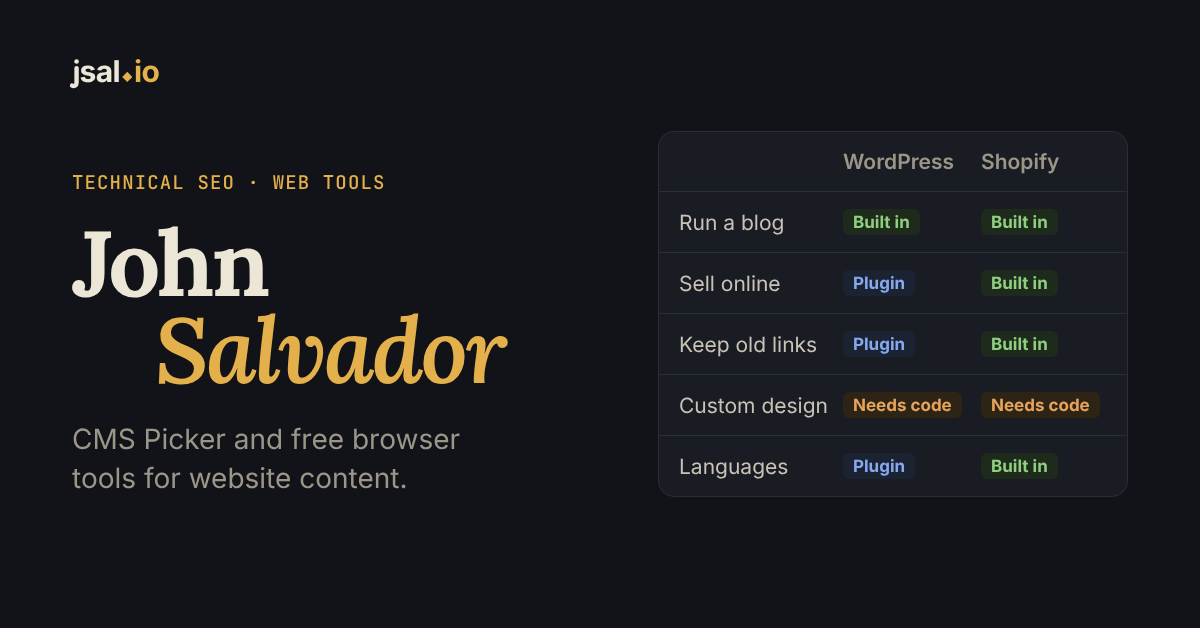
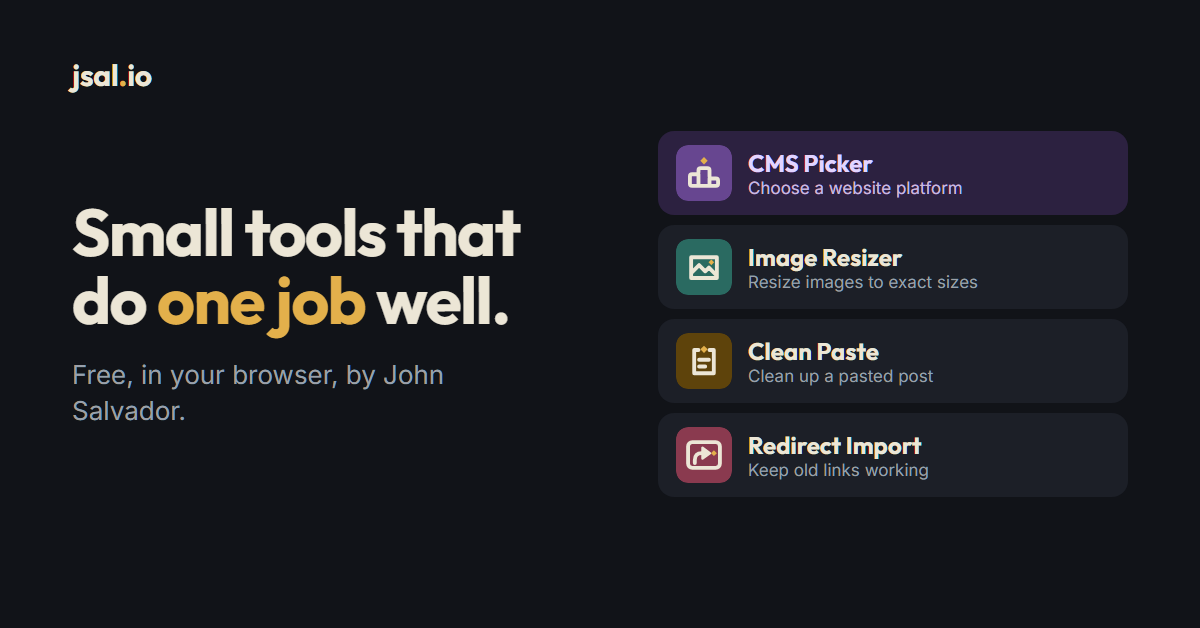
Site: share images in the new look, and the redesign's changelog lines
The link previews for the home page and Off the clock still had the old
look (Lora, the old home picture), and Off the clock's had lost its art. A
new template draws them in the pages' own look: the title in Outfit with its
gold words, and a picture from the page (the four tools, her render on the
dark stage). The jsal.ui page gets its own, with the dashboard's Home window.
Three changelog lines say what changed for visitors.

diff --git a/.github/build/og/og-play.html b/.github/build/og/og-play.html
@@ -1,0 +1,61 @@
+<!doctype html>
+<!-- Link-preview images for the home page, Off the clock and the jsal.ui page (1200 × 628), in those pages' own look:
+     the page's title in Outfit with its gold words, and a picture from the page. Rendered to PNG by make-og.ps1:
+     og-play.html?p=home | play | jsal-ui  → site/og/<p>.png -->
+<html lang="en">
+<head>
+<meta charset="utf-8">
+<link rel="stylesheet" href="https://fonts.googleapis.com/css2?family=Inter:wght@400;600&family=Outfit:wght@600;700;800&display=block">
+<style>
+* { box-sizing: border-box; margin: 0; }
+html, body { width: 1200px; height: 628px; overflow: hidden; }
+body { position: relative; display: grid; grid-template-columns: 1fr 470px; align-items: center; gap: 56px; padding: 64px 72px; background: #111318; color: #ece6d6; font-family: Inter, "Segoe UI", sans-serif; }
+.mark { position: absolute; top: 56px; left: 72px; font: 700 30px Outfit, sans-serif; letter-spacing: -0.01em; }
+.mark i { color: #e3b04b; font-style: normal; }
+h1 { font: 700 66px/1.02 Outfit, sans-serif; letter-spacing: -0.025em; text-wrap: balance; }
+h1.small { font-size: 56px; }
+h1 em { font-style: normal; color: #e3b04b; }
+p { margin-top: 24px; max-width: 18em; color: #9aa0aa; font-size: 26px; line-height: 1.4; }
+/* home: the four tools as the page lists them, the CMS Picker chosen */
+.list { display: grid; gap: 10px; }
+.row { display: grid; grid-template-columns: 56px 1fr; gap: 16px; align-items: center; padding: 14px 18px; border-radius: 16px; background: #1c1f27; }
+.row img { width: 56px; height: 56px; border-radius: 12px; }
+.row b { display: block; font: 700 24px Outfit, sans-serif; }
+.row small { color: #9aa0aa; font-size: 17px; }
+.row.on { background: #2c2140; color: #e3d4ff; }
+.row.on small { color: inherit; opacity: 0.85; }
+/* Off the clock: the character on the game's dark stage, as the sheet shows her */
+.hero { position: relative; overflow: hidden; display: grid; align-content: end; justify-items: center; height: 500px; padding: 20px; border-radius: 22px; background: radial-gradient(60% 45% at 50% 42%, #3a3f4c, #1c1f27 70%, #14171c); }
+.hero img { position: absolute; left: -50%; top: -32%; width: 200%; max-width: none; }
+.credit { position: absolute; right: 72px; bottom: 30px; color: #9aa0aa; font-size: 14px; }
+/* the jsal.ui page: the dashboard's Home window */
+.shot { height: 500px; overflow: hidden; border: 1px solid #3d424e; border-radius: 18px; background: #191c23; box-shadow: 0 24px 60px rgb(0 0 0 / 0.35); }
+.shot img { display: block; width: 760px; margin: -6px 0 0 -8px; }
+</style>
+</head>
+<body>
+<div class="mark">jsal<i>.</i>io</div>
+<div><h1 id="title"></h1><p id="sub"></p></div>
+<div id="visual"></div>
+<script>
+const p = new URLSearchParams(location.search).get('p') || 'home';
+const img = (path) => `../../../site/img/${path}`;
+const TOOLS = [['cms-picker', 'CMS Picker', 'Choose a website platform'], ['image-resizer', 'Image Resizer', 'Resize images to exact sizes'], ['clean-paste', 'Clean Paste', 'Clean up a pasted post'], ['redirect-import', 'Redirect Import', 'Keep old links working']];
+const pages = {
+  home: { title: 'Small tools that do <em>one job</em> well.', sub: 'Free, in your browser, by John Salvador.',
+    visual: `<div class="list">${TOOLS.map(([icon, name, job], i) => `<div class="row${i ? '' : ' on'}"><img src="${img(`icons/${icon}.svg`)}" alt=""><span><b>${name}</b><small>${job}</small></span></div>`).join('')}</div>` },
+  // Blizzard's render of the character, as the page shows it, credited
+  play: { title: 'Mostly <em>Warcraft</em>.', sub: 'My WoW Forever character, and the journey my own addon keeps.',
+    visual: `<div class="hero"><img src="${img('play/vizdenia-render.png')}" alt=""></div><span class="credit">Character © Blizzard Entertainment</span>` },
+  'jsal-ui': { title: 'Your WoW Forever character, <em>in one dashboard.</em>', small: true, sub: 'jsal.ui, a free addon for WoW Forever.',
+    visual: `<div class="shot"><img src="${img('jsal-ui/ui/home.webp')}" alt=""></div>` },
+};
+const d = pages[p];
+const h1 = document.getElementById('title');
+h1.innerHTML = d.title;
+if (d.small) h1.className = 'small';
+document.getElementById('sub').textContent = d.sub;
+document.getElementById('visual').innerHTML = d.visual;
+</script>
+</body>
+</html>

diff --git a/.github/build/og/og.html b/.github/build/og/og.html
@@ -1,6 +1,7 @@
 <!doctype html>
 <!-- Link-preview image template (1200 × 628). Rendered to PNG by make-og.ps1:
-     og.html?p=home | image-resizer | formatter | redirects | cms-picker | play  → site/og/<p>.png
+     og.html?p=image-resizer | formatter | redirects | cms-picker  → site/og/<p>.png (the home page, Off the clock and
+     the jsal.ui page are og-play.html's)
      icon.html → site/apple-touch-icon.png -->
 <html lang="en">
 <head>

diff --git a/.claude/rules/off-the-clock.md b/.claude/rules/off-the-clock.md
@@ -89,7 +89,7 @@ paths:
   - Numbers here are the character's own play, so the jsal.ui page's rule against counting Forever's game data
     doesn't apply to them.
 
-- **WoW Forever art** (on the share image `og/play.png` only: the "Currently playing" tile left `/play/`, John, 21 Nov 2026, "Currently playing can probably go"; `site\img\wow-forever.webp`, Blizzard's 3840×1600 original scaled to 1920×800, plus `wow-forever-1200.webp` at 1200×500 for 1x desktop screens via `srcset`) is Blizzard's, used under their fan-site policy: it may be scaled down and saved as WebP, but never crop, retouch or otherwise alter the picture (fade and frame it with CSS only), keep the "Art © Blizzard Entertainment" credit, and remove it if the site ever becomes commercial.
+- **WoW Forever art** (`site\img\wow-forever*.webp`, Blizzard's) is no longer shown: the "Currently playing" tile left `/play/` (John, 21 Nov 2026) and the share image `og/play.png` now shows her render (`.github/build/og/og-play.html`, which also makes `og/home.png` and `og/jsal-ui.png` in the new look). If the art comes back: scale it down whole, never crop or alter it, keep "Art © Blizzard Entertainment", and remove it if the site ever becomes commercial.
 - **Item icons** in the Backpack (`site\img\wow\*.jpg`: the socials, the Lantern, the Pocket Watch, the Hearthstone, the bag icons and each achievement's trophy) are Blizzard's WoW icons, used under the same terms: Blizzard's Legal FAQ allows its images on non-commercial web pages if notices stay and the files aren't altered, and Blizzard can withdraw that. Each is saved exactly as `https://render.worldofwarcraft.com/us/icons/56/<name>.jpg` serves it (56×56 JPG, never resized, cropped, recoloured or converted; CSS may frame or round it), named after Blizzard's icon, and nothing links to Blizzard's server. Keep the "Item icons © Blizzard Entertainment" line under the bag. The socials' logos are separate badges drawn over the icon, not edits to it. Find candidates by name (inv_letter_*, inv_misc_bag_*, inv_misc_coin_*…) on that server and ask John before downloading new ones.
 - **The Backpack** holds mostly John's socials (he'll add more; keep a few slots free), plus the Lantern (theme), the Pocket Watch (changelog) and the Hearthstone. Don't fill it with site links. Trophies go in the second bag, from `TROPHIES`. New items glow until inspected: add a new item's id to `NEW` so returning visitors notice it.
 - **The Backpack and Achievements share a row** (John, 21 Nov 2026: "update everything else to match"): the list
